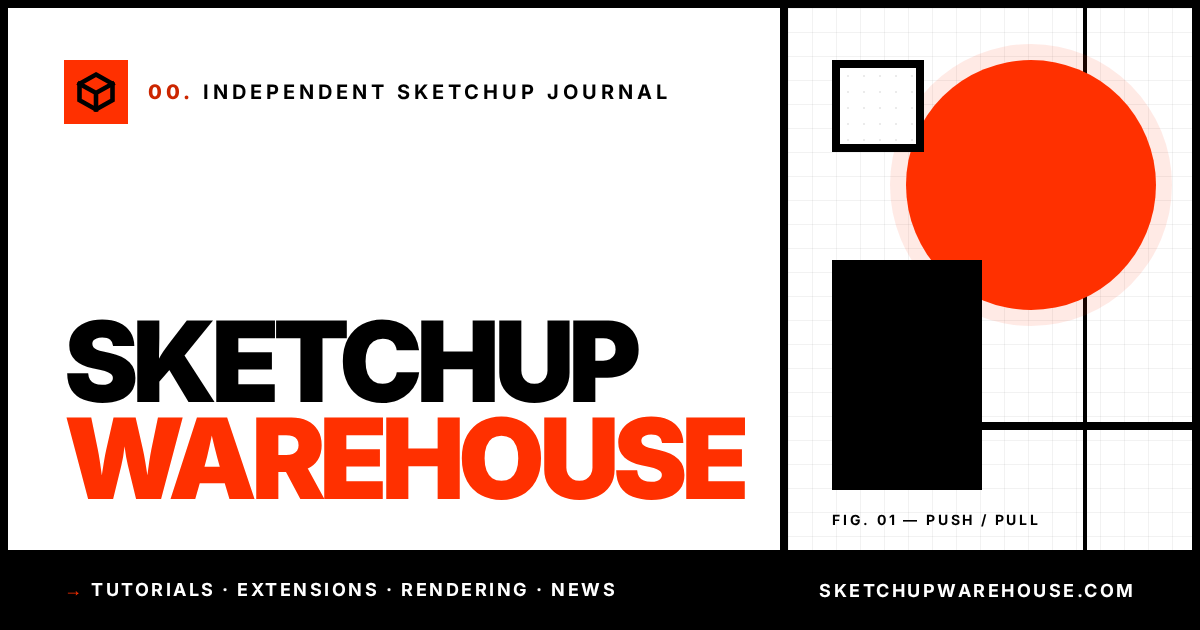
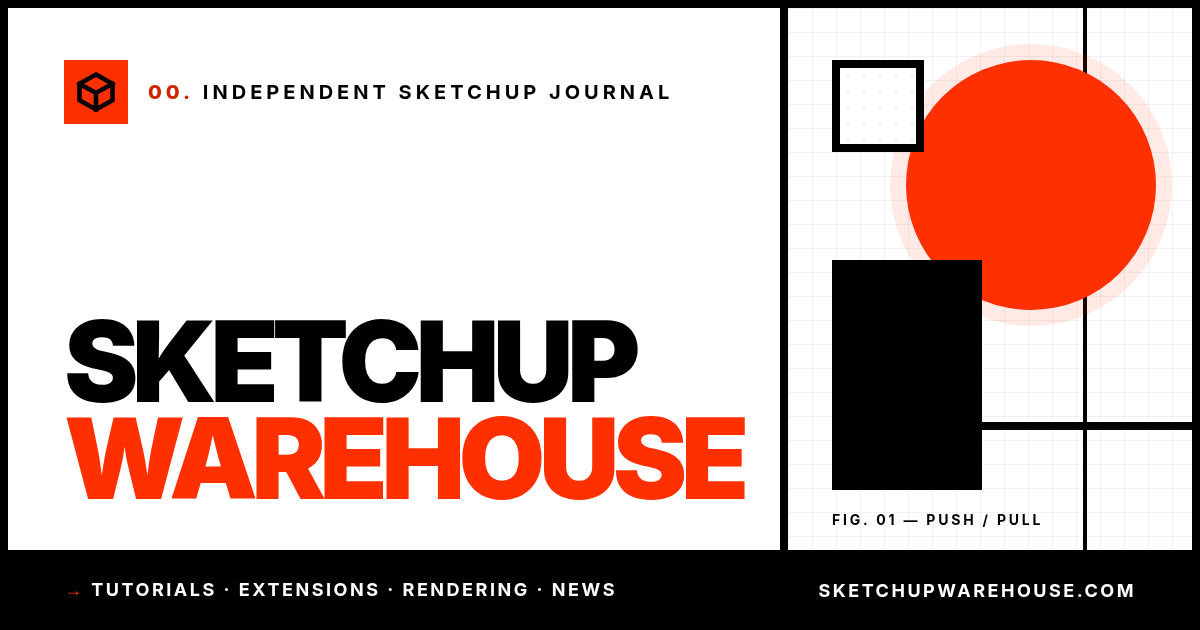
Add OG image generator script
scripts/og-image.mjs renders public/og-default.png (1200x630) from inline
HTML/CSS with headless Chromium via Playwright, so the social card can be
regenerated after design changes with `npm run og-image`.

- Embeds Inter from @fontsource-variable/inter as a data URL and fails if
  it doesn't load, instead of rendering with a fallback font
- Reads the domain from public/CNAME
- CHROMIUM_PATH overrides the browser; --out writes elsewhere
- Adds playwright as a devDependency (no browser download on install)

Regenerates og-default.png from the script. Labels now render at their
specified 700/800 weights; the previous render's file:// font load
dropped the variable weight axis.

Claude-Session: https://claude.ai/code/session_01HVko1gCY9goffr4UEcvPS1

diff --git a/README.md b/README.md
@@ -173,6 +173,8 @@ claude "Read .article/prompt.md and follow it"  # writes .article/draft.md
 node scripts/generate-post.mjs --finalize       # validates and saves the post
 ```
 
+The default social sharing image, `public/og-default.png`, is generated by `scripts/og-image.mjs`. After changing the design, run `npx playwright install chromium` once, then `npm run og-image`.
+
 Articles are plain Markdown files in `src/content/posts/`. You can edit, delete or write your own there. A post dated in the future goes live on its date, thanks to the daily rebuild.
 
 ## Trademark note
